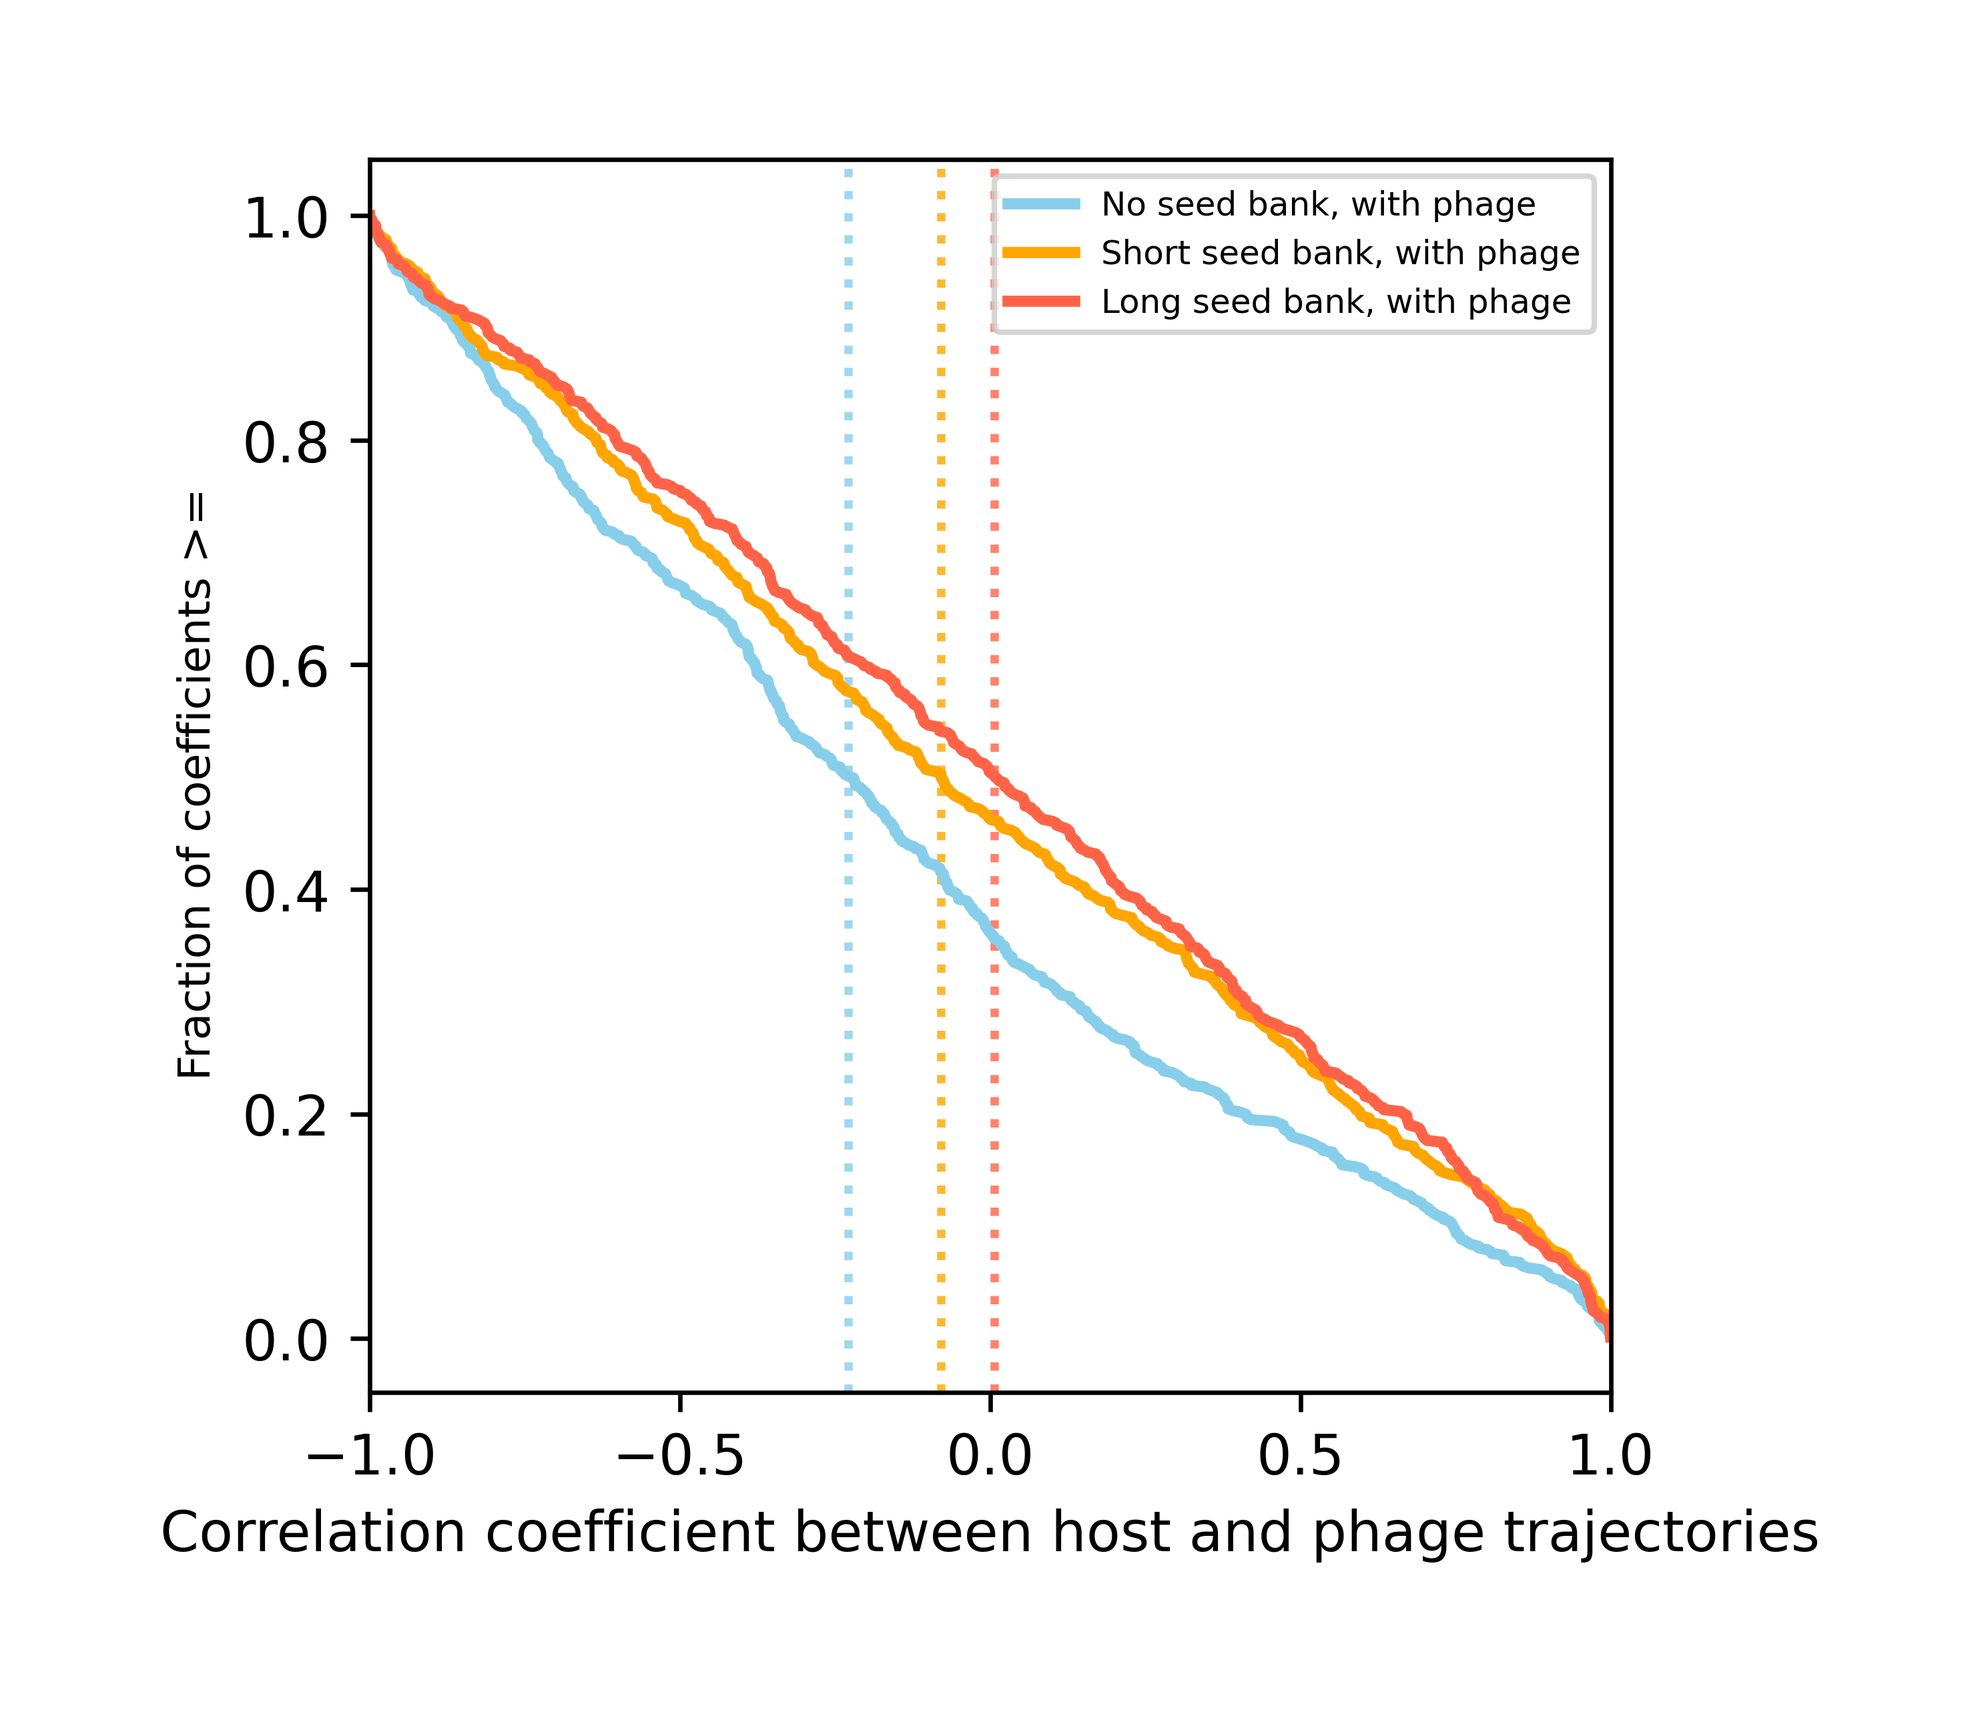
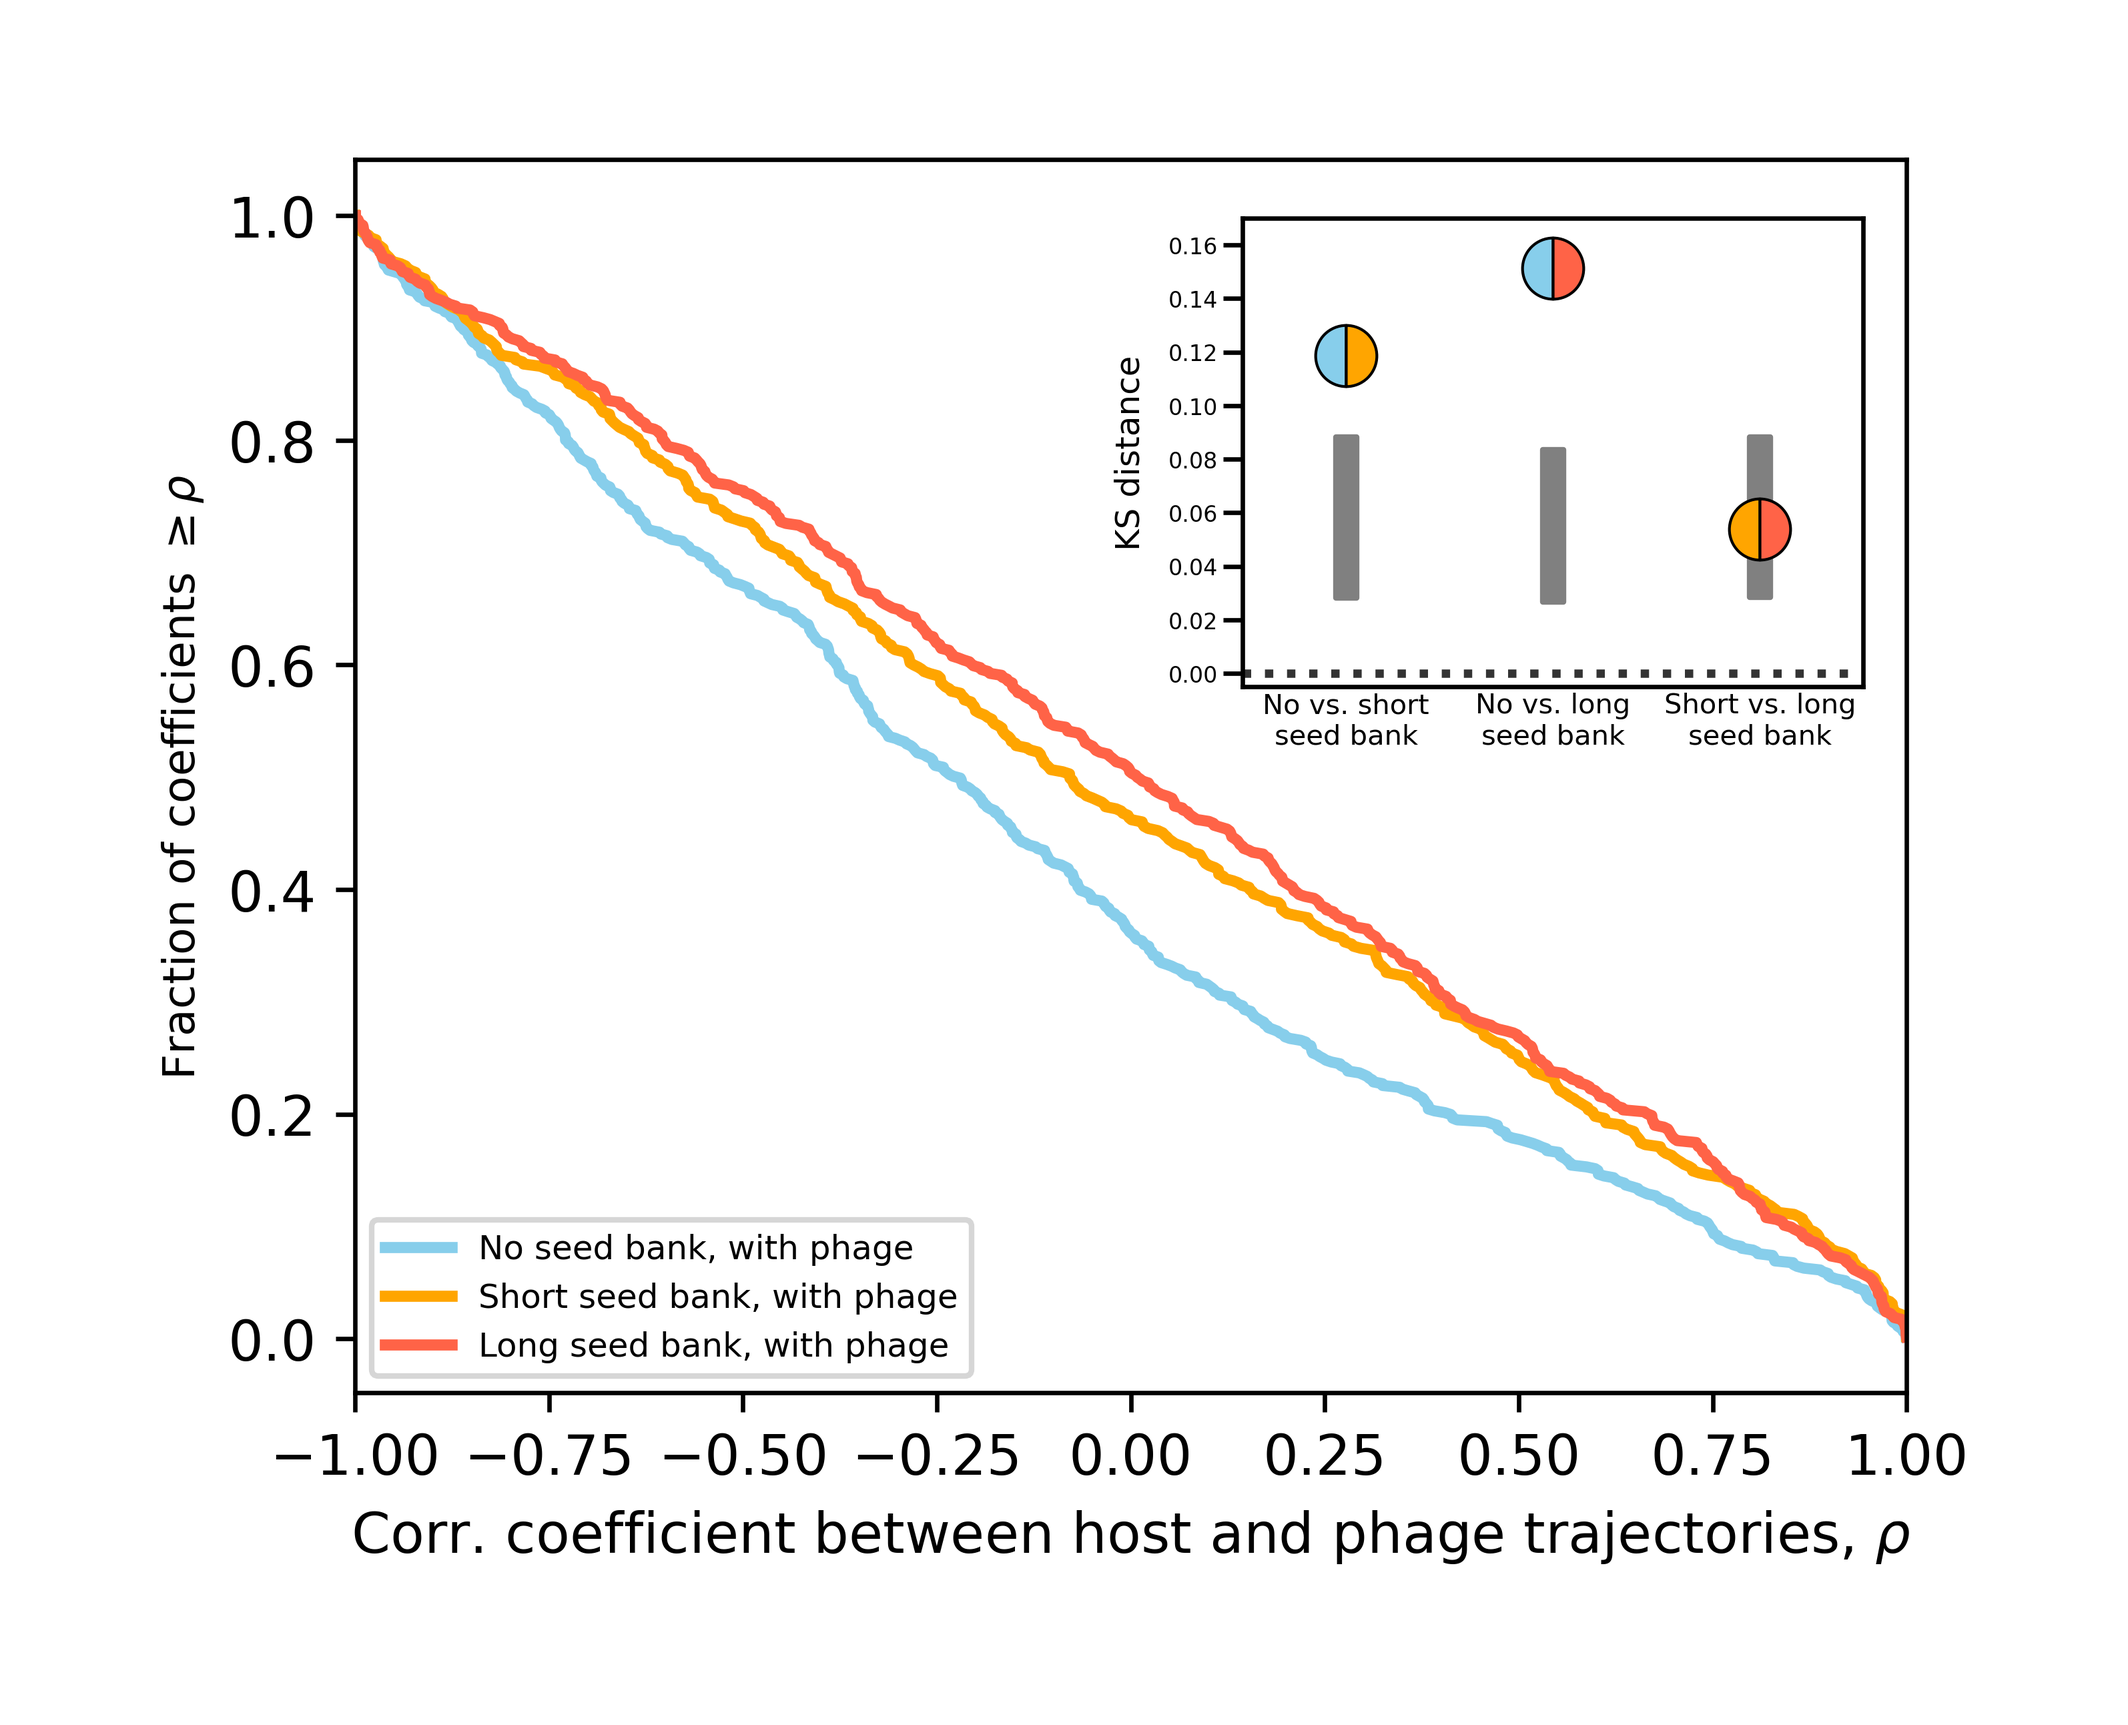
corr ks test

diff --git a/code/Python/plot_corr_host_phage.py b/code/Python/plot_corr_host_phage.py
@@ -25,6 +25,12 @@ numpy.random.seed(123456789)
 iter =10000
 
 
+ks_path = "%sks_rho_dist.pickle" % (config.data_directory)
+
+
+
+seedbank_pairs = [('no_seed_bank', 'short_seed_bank'), ('no_seed_bank', 'long_seed_bank'), ('short_seed_bank', 'long_seed_bank')]
+
 
 gene_intersection = utils.get_gene_intersection()
 phage_treatment_type = 'SPO1'
@@ -104,13 +110,75 @@ def get_frequency_trajectory_dict():
 
 
 
+
+def make_ks_dist_rho_dict():
+
+    frequency_trajectory_dict = get_frequency_trajectory_dict()
+
+    ks_dist_dict = {}
+
+    for seedbank_pair in seedbank_pairs:
+
+        seed_bank_type_i = seedbank_pair[0]
+        seed_bank_type_j = seedbank_pair[1]
+
+        rho_i = frequency_trajectory_dict[seed_bank_type_i]['rho']
+        rho_j = frequency_trajectory_dict[seed_bank_type_j]['rho']
+
+        D, p = scipy.stats.ks_2samp(rho_i, rho_j)
+
+        measure_array_merged = numpy.concatenate((rho_i, rho_j))
+
+        D_null_all = []
+        for i in range(iter):
+            numpy.random.shuffle(measure_array_merged)
+
+            null_i = measure_array_merged[:len(rho_i)]
+            null_j = measure_array_merged[len(rho_i):]
+
+            D_null, p_null = scipy.stats.ks_2samp(null_i, null_j)
+            D_null_all.append(D_null)
+
+        D_null_all = numpy.asarray(D_null_all)
+        D_null_all = numpy.sort(D_null_all)
+        p_perm = sum(D_null_all > D)/iter
+        lower_ci = D_null_all[int(iter*0.025)]
+        upper_ci = D_null_all[int(iter*0.975)]
+
+        ks_dist_dict[seedbank_pair] = {}
+        ks_dist_dict[seedbank_pair]['D'] = D
+        ks_dist_dict[seedbank_pair]['p'] = p_perm
+        ks_dist_dict[seedbank_pair]['null_mean'] = numpy.mean(D_null_all)
+        ks_dist_dict[seedbank_pair]['null_median'] = numpy.median(D_null_all)
+        ks_dist_dict[seedbank_pair]['lower_ci'] = lower_ci
+        ks_dist_dict[seedbank_pair]['upper_ci'] = upper_ci
+
+        print(seed_bank_type_i, seed_bank_type_j, D, p_perm)
+
+    with open(ks_path, 'wb') as handle:
+        pickle.dump(ks_dist_dict, handle, protocol=pickle.HIGHEST_PROTOCOL)
+
+
+def load_ks_dict():
+
+    with open(ks_path, 'rb') as handle:
+        ks_dist_dict = pickle.load(handle)
+    return ks_dist_dict
+
+
 frequency_trajectory_dict = get_frequency_trajectory_dict()
+ks_dist_dict = load_ks_dict()
 
 #fig = plt.figure(figsize = (5, 8)) #
 #fig.subplots_adjust(bottom= 0.15,  wspace=0.25)
 
 #ax = plt.subplot2grid((1, 0), (0, 0), colspan=1)
-fig, ax = plt.subplots(figsize=(4, 4))
+fig, ax = plt.subplots(figsize=(5, 4))
+
+import matplotlib as mpl
+mpl.rcParams['xtick.labelsize'] = 7
+mpl.rcParams['ytick.labelsize'] = 7
+
 for seed_bank_type_idx, seed_bank_type in enumerate(utils.seed_bank_types):
 
     rho_all_sort = numpy.sort(frequency_trajectory_dict[seed_bank_type]['rho'])
@@ -118,13 +186,58 @@ for seed_bank_type_idx, seed_bank_type in enumerate(utils.seed_bank_types):
 
     label = utils.seed_bank_types_format_dict[seed_bank_type] + ', ' + utils.phage_treatment_types_format_dict[phage_treatment_type]
     ax.plot(rho_all_sort, cdf, c=utils.color_dict[seed_bank_type], ls='-', label=label, lw=2, alpha=1)
-    ax.axvline(x=numpy.median(rho_all_sort), color=utils.color_dict[seed_bank_type], linestyle=':', alpha = 0.8, zorder=1)
+    #ax.axvline(x=numpy.median(rho_all_sort), color=utils.color_dict[seed_bank_type], linestyle=':', alpha = 0.8, zorder=1)
 
 ax.set_xlim(-1, 1)
 #ax.set_yscale('log', basey=10)
-ax.set_xlabel('Correlation coefficient between host and phage trajectories', fontsize = 10)
-ax.set_ylabel('Fraction of coefficients >= ', fontsize = 8)
-ax.legend(loc="upper right", fontsize=6)
+ax.set_xlabel('Corr. coefficient between host and phage trajectories, ' +  r'$\rho$', fontsize = 10)
+ax.set_ylabel('Fraction of coefficients ' + r'$\geq \rho$', fontsize = 8)
+ax.legend(loc="lower left", fontsize=6)
+
+# plot inset
+#ins_ks = inset_axes(ax, width="100%", height="100%", loc='lower right', bbox_to_anchor=(0.14,0.07,0.4,0.38), bbox_transform=ax.transAxes)
+ins_ks = inset_axes(ax, width="100%", height="100%", loc='lower right', bbox_to_anchor=(0.59,0.55,0.4,0.38), bbox_transform=ax.transAxes)
+
+for seedbank_pair_idx, seedbank_pair in enumerate(seedbank_pairs):
+
+    seedbank_pair_D = ks_dist_dict[seedbank_pair]['D']
+
+    marker_style = dict(color='k', marker='o',
+        markerfacecoloralt=utils.color_dict[seedbank_pair[1]],
+        markerfacecolor=utils.color_dict[seedbank_pair[0]],
+        mew=0.5)
+
+    ins_ks.plot(seedbank_pair_idx, seedbank_pair_D, markersize = 11,   \
+            linewidth=0.4,  alpha=1, zorder=3, fillstyle='left', **marker_style)
+
+    #ins_ks.plot(seed_bank_type_idx, D, markersize = 11, marker = 'o',  \
+    #    linewidth=0.4,  alpha=1, color=utils.color_dict[seed_bank_type], zorder=2)
+
+    delta = 0.05
+    fill_between_x = numpy.asarray([seedbank_pair_idx-delta, seedbank_pair_idx+delta])
+    fill_between_y_lower = numpy.asarray([ks_dist_dict[seedbank_pair]['lower_ci'], ks_dist_dict[seedbank_pair]['lower_ci']])
+    fill_between_y_upper = numpy.asarray([ks_dist_dict[seedbank_pair]['upper_ci'], ks_dist_dict[seedbank_pair]['upper_ci']])
+
+    ins_ks.fill_between(fill_between_x, y1=fill_between_y_lower, y2=fill_between_y_upper, color='grey')
+
+
+ins_ks.tick_params(labelsize=4)
+ins_ks.tick_params(axis='both', which='major', pad=1)
+ins_ks.set_xlim([-0.5, 2.5])
+ins_ks.set_ylim([-0.005, 0.17])
+ins_ks.set_xticks([0, 1, 2])
+
+ins_ks.set_xticklabels(['No vs. short\nseed bank', 'No vs. long\nseed bank', 'Short vs. long\nseed bank'] )
+
+
+
+ins_ks.set_ylabel("KS distance", fontsize=6)
+ins_ks.tick_params(axis='x', labelsize=5, length = 0)
+
+ins_ks.axhline(y=0, color='k', linestyle=':', alpha = 0.8, zorder=1)
+ins_ks.yaxis.set_tick_params(labelsize=4)
+
+
 
 fig_name = '%srho.png' % (config.analysis_directory)
 fig.savefig(fig_name, bbox_inches = "tight", pad_inches = 0.4, dpi = 600)

diff --git a/code/Python/plot_fluctuation_dists.py b/code/Python/plot_fluctuation_dists.py
@@ -260,10 +260,6 @@ def plot_ks_dist():
             ins_ks.plot(seed_bank_type_idx, D, markersize = 11, marker = 'o',  \
                 linewidth=0.4,  alpha=1, color=utils.color_dict[seed_bank_type], zorder=2)
 
-
-            print(ks_dist_dict[measure][seed_bank_type]['lower_ci'])
-            print(ks_dist_dict[measure][seed_bank_type]['upper_ci'])
-
             delta = 0.05
             fill_between_x = numpy.asarray([seed_bank_type_idx-delta, seed_bank_type_idx+delta])
             fill_between_y_lower = numpy.asarray([ks_dist_dict[measure][seed_bank_type]['lower_ci'], ks_dist_dict[measure][seed_bank_type]['lower_ci']])
